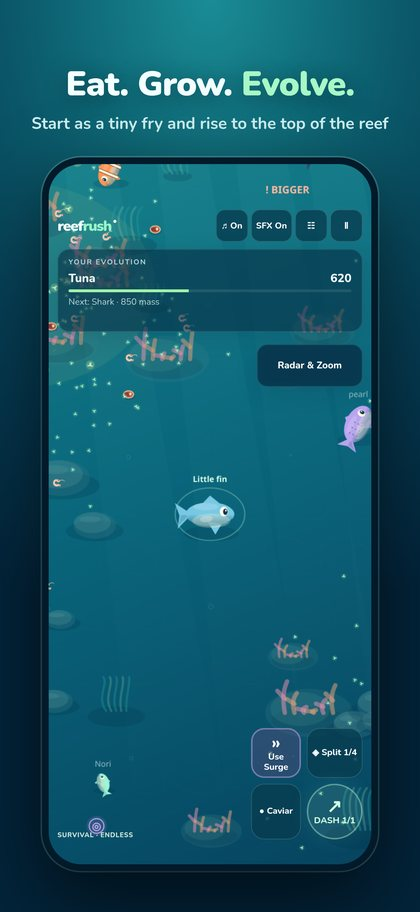
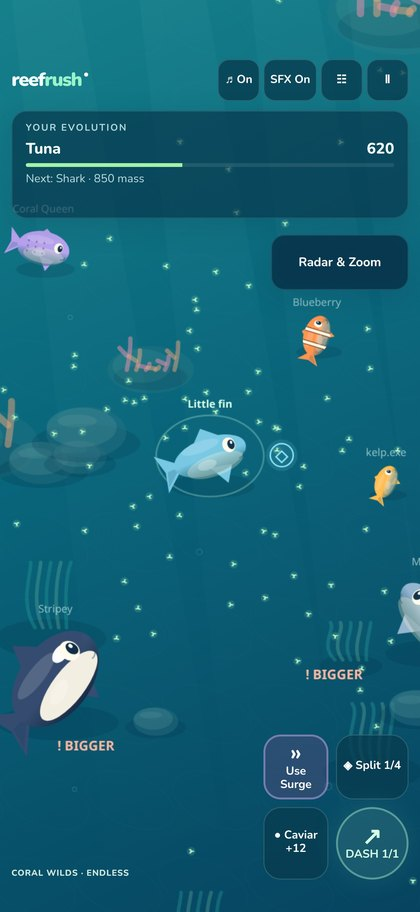
Website for Reef Rush 4.2 (#2)
- Support: ads appear only when you restart or continue, on every other
  round; new answers for Caviar (bigger fish spit richer caviar) and the
  sound/haptics switches; version example 4.2 (41).
- Landing page screenshots refreshed from the 4.2 build (no third-party
  bot names), image sizes set, absolute og:image for link previews.
- Copyright line and Apple/Google/Bluetooth/Wi-Fi trademark notices on
  every page.
- README refers to the 4.x ad-supported releases.

diff --git a/support.html b/support.html
@@ -13,6 +13,7 @@
     .box { background:#fff; border:1px solid #d5e6ea; border-radius:12px; padding:16px 18px; margin:16px 0; }
     details { background:#fff; border:1px solid #d5e6ea; border-radius:12px; padding:12px 16px; margin:10px 0; }
     summary { font-weight:600; cursor:pointer; }
+    .legal { margin-top:40px; padding-top:16px; border-top:1px solid #d5e6ea; font-size:.8rem; color:#5a7a82; }
   </style>
 </head>
 <body>
@@ -24,12 +25,14 @@
     <div class="box">
       <strong>Contact</strong><br>
       Email: <a href="mailto:norfork37@gmail.com?subject=Reef%20Rush%20support">norfork37@gmail.com</a><br>
-      For a bug report, please include your device model, iOS version and the app version shown at the bottom of Settings (for example “Reef Rush 4.1 (40)”). A screenshot or screen recording helps a lot.
+      For a bug report, please include your device model, iOS version and the app version shown at the bottom of Settings (for example “Reef Rush 4.2 (41)”). A screenshot or screen recording helps a lot.
     </div>
 
     <h2>Playing</h2>
     <details><summary>How do I swim, dash and attack?</summary><p>Touch anywhere on the left half of the screen and drag to swim. Dash, powers, split, caviar and Battle Royale shots are on the right. In Settings you can switch to <em>Cruise</em> steering (steer, then lift your thumb), shorter thumb travel, inverted movement, automatic battle shots and reduced motion.</p></details>
     <details><summary>What are the modes?</summary><p>Coral Wilds (endless survival), Wreck Dive (hunt five divers as a whale), Current Run (race through gates), Moon Garden (peaceful, no predators), Kelp Nursery (90-second growth sprint), Storm Rush (60-second score chase), Crystal Caverns (reach whale size in five minutes) and Battle Royale (bubble combat with four teams). Reach 300,000 mass to unlock the Ancient Ocean: pause and choose <em>Teleport to Ancient Ocean</em>.</p></details>
+    <details><summary>What does Caviar do?</summary><p>Tap <em>Caviar</em> to spit some of your mass out as caviar. Any fish can eat it, so it is a quick way to feed a teammate. Bigger fish spit richer caviar: a Megalodon's caviar is worth about 2,000 mass, and the Caviar button shows the current value. Spitting always costs a little more than the caviar is worth.</p></details>
+    <details><summary>Can I turn off sound or vibration?</summary><p>Yes. <em>Settings → Sound</em> has separate switches for music, sound effects and haptics. The ♫ and SFX buttons during a dive do the same.</p></details>
     <details><summary>Can I play without internet?</summary><p>Yes. Solo play, and nearby play over Bluetooth, work fully offline. Ads, Game Center and iCloud sync need a connection.</p></details>
 
     <h2>Nearby multiplayer</h2>
@@ -38,7 +41,7 @@
     <details><summary>My friend's game doesn't appear.</summary><p>Check that iOS <em>Settings → Privacy &amp; Security → Bluetooth</em> and <em>Local Network</em> are allowed for Reef Rush, that Bluetooth is on and that both apps are in the foreground. Then go back to the menu and host or join again.</p></details>
 
     <h2>Ads and purchases</h2>
-    <details><summary>When do ads appear?</summary><p>Only between finished solo rounds, never during a dive, a tutorial or a multiplayer game, and not in your first few rounds. After being eaten you can choose to watch a video to revive, once per dive.</p></details>
+    <details><summary>When do ads appear?</summary><p>Only when you restart or continue after a finished solo round, and only on every other one. Never during a dive, a tutorial or a multiplayer game. After being eaten you can choose to watch a video to revive, once per dive.</p></details>
     <details><summary>How do I remove ads?</summary><p>Go to <em>Settings → Ads, purchases &amp; privacy → Remove ads</em>. It's a one-time purchase that removes between-round ads and makes revives free.</p></details>
     <details><summary>I bought Remove Ads but still see ads, or I have a new device.</summary><p>Tap <em>Settings → Ads, purchases &amp; privacy → Restore purchases</em> while signed in with the same Apple Account you used to buy it. Refunds are handled by Apple at <a href="https://reportaproblem.apple.com">reportaproblem.apple.com</a>.</p></details>
     <details><summary>How do I change my ad privacy choices?</summary><p>If your region requires it, <em>Ad privacy choices</em> appears in the same Settings section. Tracking permission can be changed in iOS <em>Settings → Privacy &amp; Security → Tracking</em>. See the <a href="privacy.html">Privacy Policy</a>.</p></details>
@@ -49,6 +52,7 @@
 
     <h2>Privacy</h2>
     <p>See the <a href="privacy.html">Privacy Policy</a>.</p>
+    <footer class="legal">© 2026 the Reef Rush developer. All rights reserved.<br>Apple, iPhone, iPad, Game Center and iCloud are trademarks of Apple Inc., registered in the U.S. and other countries and regions. App Store is a service mark of Apple Inc. Google AdMob is a trademark of Google LLC. The Bluetooth® word mark is owned by Bluetooth SIG, Inc. Wi-Fi® is a registered trademark of Wi-Fi Alliance. Reef Rush is not affiliated with or endorsed by these companies.</footer>
   </main>
 </body>
 </html>

diff --git a/index.html b/index.html
@@ -7,7 +7,10 @@
   <meta name="description" content="Start as a tiny fry and grow into a Megalodon. Eight oceans, bubble-blast Battle Royale and a hidden Ancient Ocean, solo or with friends nearby." />
   <meta property="og:title" content="Reef Rush" />
   <meta property="og:description" content="Eat, grow and outswim the reef. Ocean survival for iPhone and iPad." />
-  <meta property="og:image" content="assets/icon.png" />
+  <meta property="og:image" content="https://norfork37.github.io/reefrush/assets/icon.png" />
+  <meta property="og:url" content="https://norfork37.github.io/reefrush/" />
+  <meta property="og:type" content="website" />
+  <meta name="twitter:card" content="summary" />
   <link rel="icon" href="assets/icon.png" />
   <style>
     :root { color-scheme: dark; --text:#e8fbff; --muted:#a9d5de; --accent:#7dffc8; }
@@ -19,7 +22,7 @@
     .tag { margin:0; color:var(--muted); font-size:1.1rem; }
     .badge { display:inline-block; margin-top:14px; padding:10px 16px; border-radius:12px; background:#000; color:#fff; font-weight:600; text-decoration:none; border:1px solid #ffffff44; }
     .shots { display:grid; grid-template-columns:repeat(3,minmax(0,1fr)); gap:16px; margin:36px 0; }
-    .shots img { width:100%; border-radius:18px; box-shadow:0 14px 40px rgba(0,0,0,.35); }
+    .shots img { width:100%; height:auto; border-radius:18px; box-shadow:0 14px 40px rgba(0,0,0,.35); }
     .features { display:grid; grid-template-columns:repeat(auto-fit,minmax(220px,1fr)); gap:14px; }
     .card { background:rgba(15,81,96,.75); border:1px solid rgba(125,255,200,.22); border-radius:16px; padding:18px; }
     .card h2 { margin:0 0 6px; font-size:1.05rem; color:var(--accent); }
@@ -28,6 +31,7 @@
     a.btn { display:inline-block; margin:8px 10px 0 0; padding:12px 16px; border-radius:999px; background:var(--accent); color:#04352a; text-decoration:none; font-weight:700; }
     a.link { color:var(--accent); }
     footer { margin-top:28px; font-size:.9rem; color:var(--muted); }
+    footer.legal { margin-top:14px; font-size:.75rem; line-height:1.5; opacity:.8; }
     @media (max-width:640px) { .shots { grid-template-columns:1fr 1fr; } .shots img:last-child { display:none; } h1 { font-size:2rem; } }
   </style>
 </head>
@@ -43,9 +47,9 @@
     </header>
 
     <section class="shots" aria-label="Screenshots">
-      <img src="assets/screen-1.jpg" alt="A tuna swimming through Coral Wilds" loading="lazy" />
-      <img src="assets/screen-2.jpg" alt="Bubble-blast Battle Royale" loading="lazy" />
-      <img src="assets/screen-3.jpg" alt="Prehistoric giants in the Ancient Ocean" loading="lazy" />
+      <img src="assets/screen-1.jpg" alt="A tuna swimming through Coral Wilds among smaller fish and predators" loading="lazy" width="420" height="912" />
+      <img src="assets/screen-2.jpg" alt="Bubble-blast Battle Royale with four teams" loading="lazy" width="420" height="912" />
+      <img src="assets/screen-3.jpg" alt="A Dunkleosteus among prehistoric giants in the Ancient Ocean" loading="lazy" width="420" height="912" />
     </section>
 
     <section class="features">
@@ -60,6 +64,7 @@
       <a class="btn" href="privacy.html">Privacy Policy</a>
     </nav>
     <footer>Contact: <a class="link" href="mailto:norfork37@gmail.com">norfork37@gmail.com</a></footer>
+    <footer class="legal">© 2026 the Reef Rush developer. All rights reserved.<br>Apple, iPhone, iPad, Game Center and iCloud are trademarks of Apple Inc., registered in the U.S. and other countries and regions. App Store is a service mark of Apple Inc. Google AdMob is a trademark of Google LLC. The Bluetooth® word mark is owned by Bluetooth SIG, Inc. Wi-Fi® is a registered trademark of Wi-Fi Alliance. Reef Rush is not affiliated with or endorsed by these companies.</footer>
   </main>
 </body>
 </html>

diff --git a/privacy.html b/privacy.html
@@ -16,6 +16,7 @@
     table { border-collapse:collapse; width:100%; font-size:.95rem; }
     th,td { text-align:left; vertical-align:top; padding:8px 10px; border-bottom:1px solid #d5e6ea; }
     th { background:#e8f4f6; }
+    .legal { margin-top:40px; padding-top:16px; border-top:1px solid #d5e6ea; font-size:.8rem; color:#5a7a82; }
   </style>
 </head>
 <body>
@@ -82,6 +83,7 @@
 
     <h2>Contact</h2>
     <p><a href="mailto:norfork37@gmail.com">norfork37@gmail.com</a></p>
+    <footer class="legal">© 2026 the Reef Rush developer. All rights reserved.<br>Apple, iPhone, iPad, Game Center and iCloud are trademarks of Apple Inc., registered in the U.S. and other countries and regions. App Store is a service mark of Apple Inc. Google AdMob is a trademark of Google LLC. The Bluetooth® word mark is owned by Bluetooth SIG, Inc. Wi-Fi® is a registered trademark of Wi-Fi Alliance. Reef Rush is not affiliated with or endorsed by these companies.</footer>
   </main>
 </body>
 </html>

diff --git a/README.md b/README.md
@@ -6,7 +6,7 @@ GitHub Pages site for the App Store listing: https://norfork37.github.io/reefrus
 - Privacy Policy (App Store Connect → Privacy Policy URL): `/privacy.html`
 - Support (App Store Connect → Support URL): `/support.html`
 
-The privacy policy describes the ad-supported 4.1 release: Google AdMob, consent and App Tracking Transparency choices, the Remove Ads purchase, Game Center and iCloud, and nearby multiplayer.
+The privacy policy describes the ad-supported 4.x releases (4.1 and 4.2): Google AdMob, consent and App Tracking Transparency choices, the Remove Ads purchase, Game Center and iCloud, and nearby multiplayer.
 
 ## app-ads.txt
 
